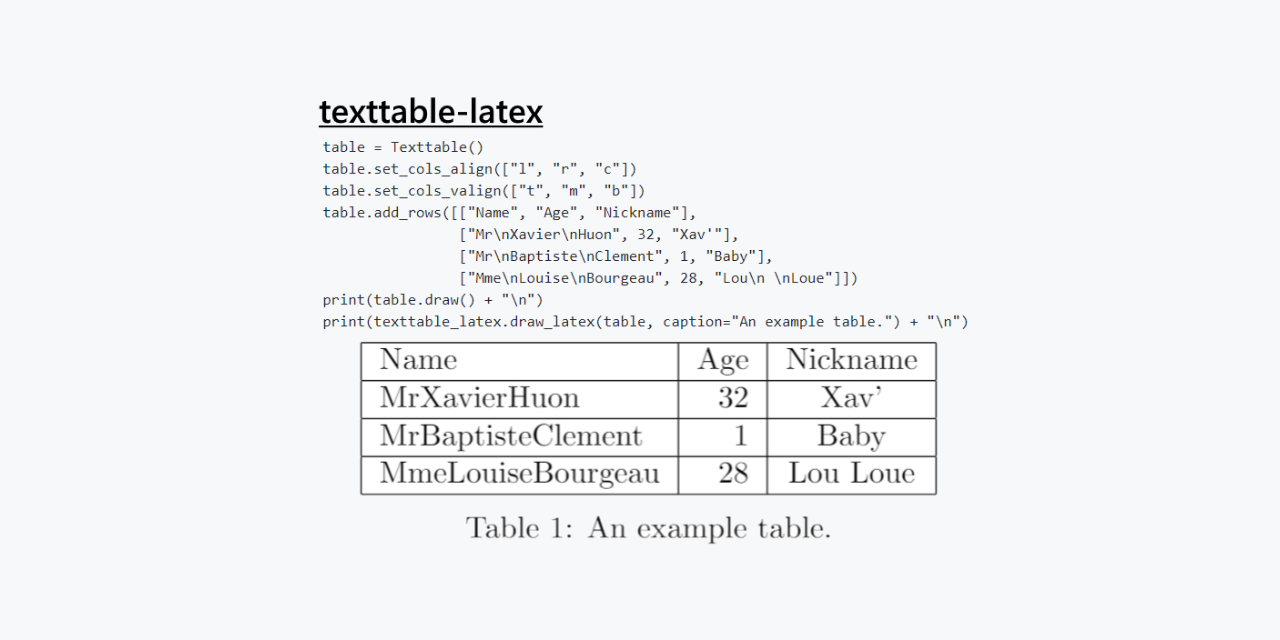
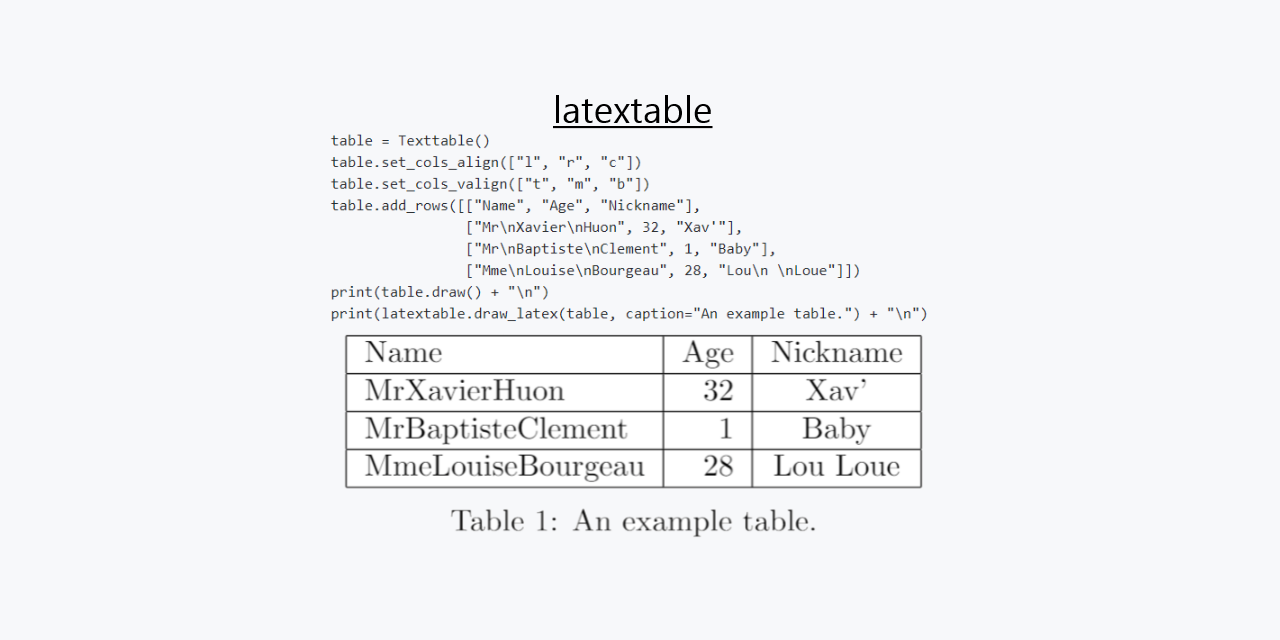
Updated readme, setup and images.

Changed region(s): [[0.25, 0.1562, 0.75, 0.8438]]

diff --git a/setup.py b/setup.py
@@ -10,15 +10,15 @@ README = (HERE / "README.md").read_text()
 
 # This call to setup() does all the work
 setup(
-    name="texttable-latex",
+    name="latextable",
     version="0.1.0",
-    packages=["texttable-latex"],
+    py_modules=['latextable'],
     install_requires=["texttable"],
     description="An extension to the texttable library that exports tables directly to Latex.",
     keywords="table texttable latex",
     long_description=README,
     long_description_content_type="text/markdown",
-    url="https://github.com/JAEarly/texttable-latex",
+    url="https://github.com/JAEarly/latextable",
     author="Joseph Early",
     author_email="joseph.early.ai@gmail.com",
     license="MIT",
@@ -27,6 +27,5 @@ setup(
         "License :: OSI Approved :: MIT License",
         "Programming Language :: Python :: 3",
     ],
-    test_suite="texttable.tests.test",
     include_package_data=False,
 )

diff --git a/README.md b/README.md
@@ -1,10 +1,10 @@
 # latextable
 
-[![License: MIT](https://img.shields.io/badge/License-MIT-yellow.svg)](https://opensource.org/licenses/MIT)  ![Build Status](https://github.com/JAEarly/texttable-latex/workflows/build/badge.svg)
+[![License: MIT](https://img.shields.io/badge/License-MIT-yellow.svg)](https://opensource.org/licenses/MIT)  ![Build Status](https://github.com/JAEarly/latextable/workflows/build/badge.svg)
 
-[Texttable](https://github.com/foutaise/texttable) is a Python package that can create simple ASCII tables. This package extends its functionality to allow the table to be directly output in Latex, removing the tedious copy and paste chore. The Latex output matches the table design, and there are utilities for adding table captions and labels.
-
-There is an [open pull request](https://github.com/foutaise/texttable/pull/68) to add these features directly to the Texttable library, but it has yet to get any attention so I've released it as its own library.
+[Texttable](https://github.com/foutaise/texttable) is a Python package that can create simple ASCII tables.
+This package extends its functionality to allow the table to be directly output in Latex, removing the tedious copy and paste chore.
+The Latex output matches the table design, and there are utilities for adding table captions and labels.
 
 ![](docs/cover_cropped.png)
 
@@ -18,10 +18,10 @@ There is an [open pull request](https://github.com/foutaise/texttable/pull/68) t
 
 ## Installation
 
-[PyPi](https://pypi.org/project/texttable-latex/0.1.0/):
+PyPi:
 
 ```
-pip install texttable-latex
+pip install latextable
 ```
 
 Requirements:
@@ -33,7 +33,6 @@ texttable
 ## Usage
 
 The single function `latextable.draw_latex` returns a formatted Latex string based on the provided table.
-Draw a Texttable table in Latex format.
 
 ```
 draw_latex(table, caption=None, label=None, drop_columns=None)
@@ -140,7 +139,7 @@ Latex output:
 ## Meta
 
 [Joseph Early](https://www.jearly.co.uk/)  
-[@JosephAEarly](https://twitter.com/dbader_org)  
+[@JosephAEarly](https://twitter.com/JosephAEarly)  
 joseph.early.ai@gmail.com
 
 Distributed under the MIT license. See ``LICENSE`` for more information.
